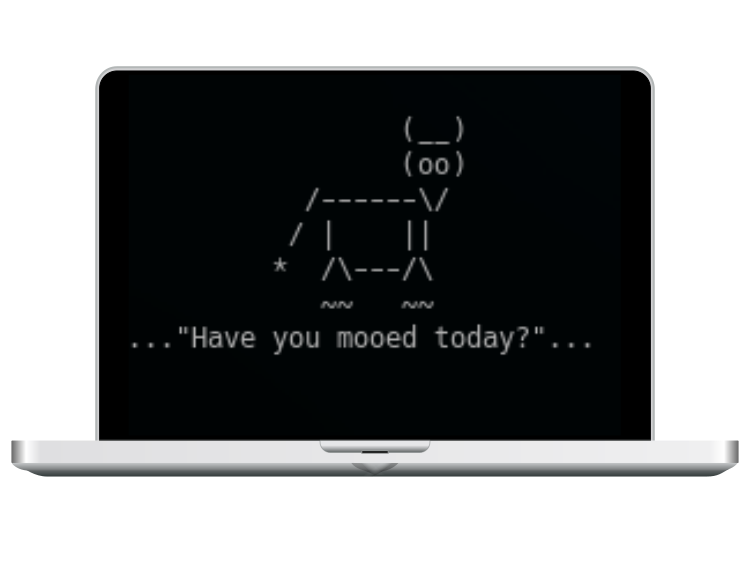
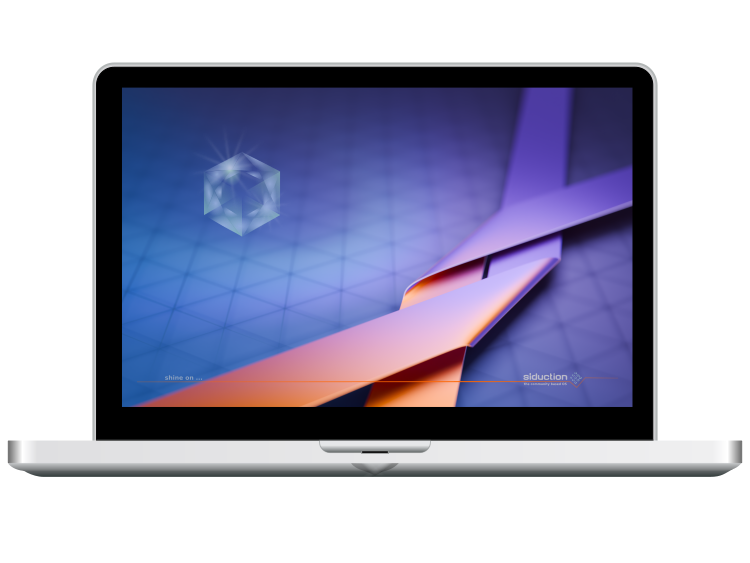
one more slide and english description, translation not done yet

diff --git a/calamares/branding/siduction/show.qml b/calamares/branding/siduction/show.qml
@@ -198,6 +198,26 @@ Presentation
         Text {
             anchors.horizontalCenter: background9.horizontalCenter
             anchors.top: background9.bottom
+            text: qsTr("Our 2025 Release. The wallpaer is a modified version of a KDE/Plasma Wallpaper.<br/>"+
+            "We choose the song 'Shine On You Crazy Diamont' by Pink Flouyed")
+            wrapMode: Text.WordWrap
+            width: 800
+            horizontalAlignment: Text.Center
+        }
+    }
+
+    Slide {
+
+        Image {
+            id: background10
+            source: "slide10.png"
+            width: 467; height: 280
+            fillMode: Image.PreserveAspectFit
+            anchors.centerIn: parent
+        }
+        Text {
+            anchors.horizontalCenter: background10.horizontalCenter
+            anchors.top: background10.bottom
             text: qsTr("Also, we want to thank all the people who helped to start this project and adventure 'siduction'!<br/>"+
                   "Have fun and <b>'apt moo'<b/>!<br/>")
             wrapMode: Text.WordWrap
